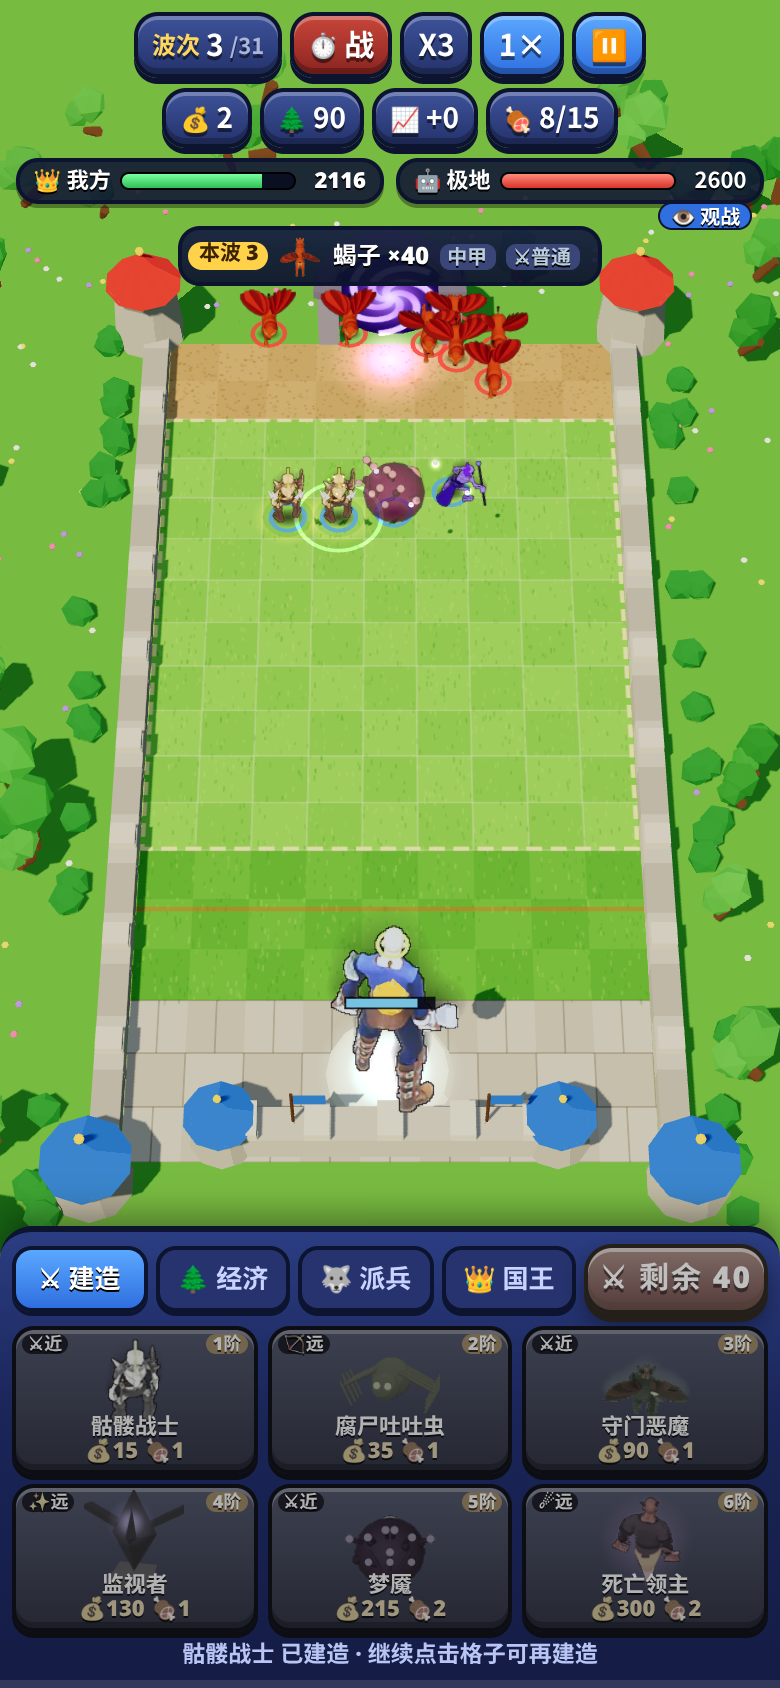
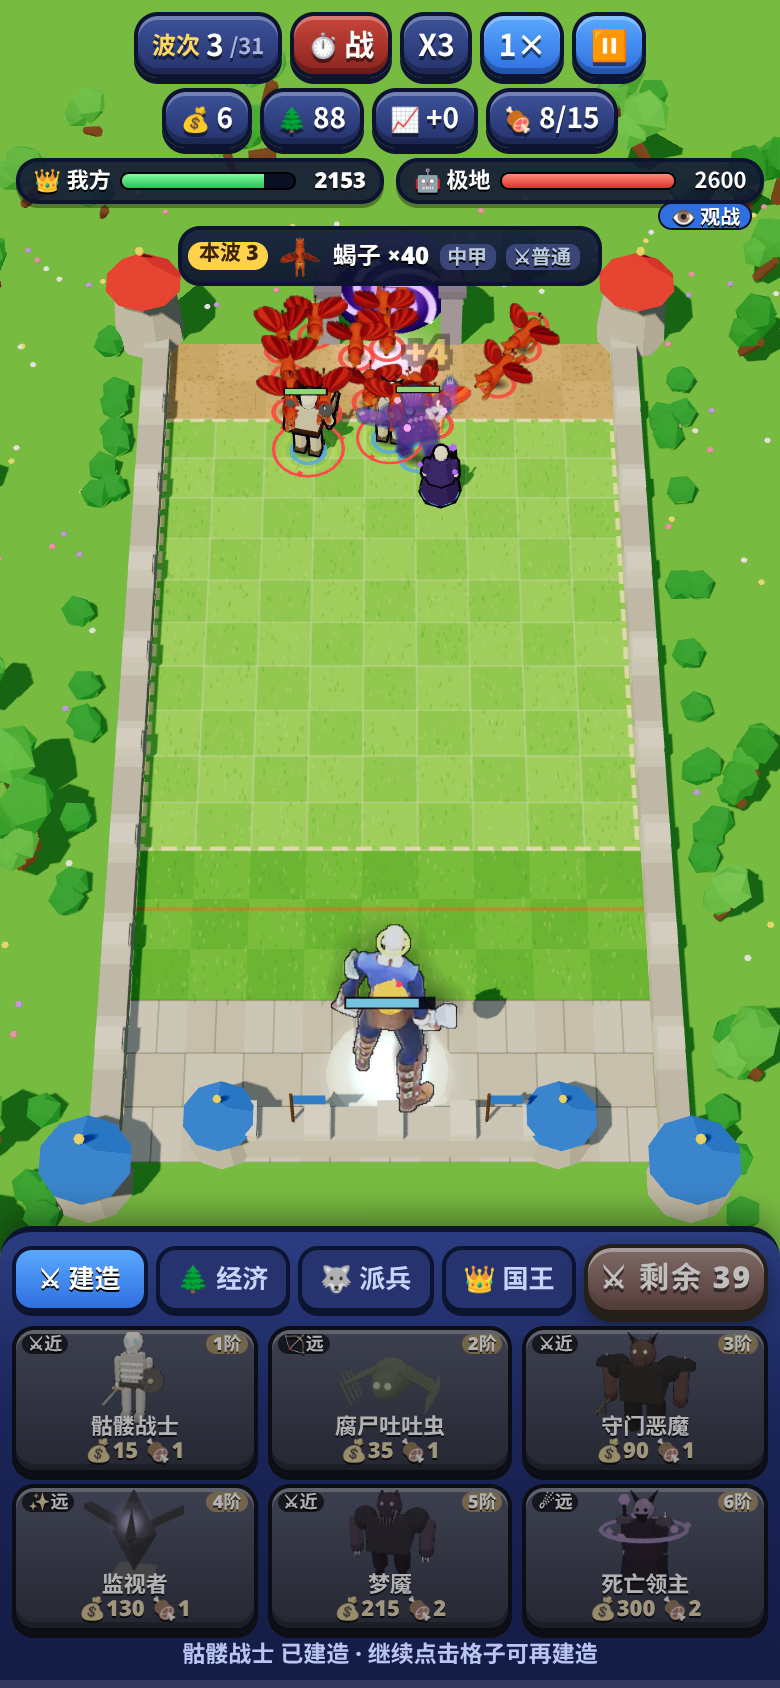
Model remake: Shadow (skeletons, fel guards, faceless ones, eredar, doom guard; crypt fiends/obsidian statues keep matching procedural models)

diff --git a/toonrecipes.js b/toonrecipes.js
@@ -101,3 +101,15 @@ R('h0C5',{k:0.95,plan:'flyer',skin:0xc8882a,skin2:0xf0c070,wingC:0x8a4a2a,eye:0x
 R('h0C8',{k:1.08,plan:'flyer',skin:0xb87a2a,skin2:0xf0c070,wingC:0x6a3a1a,eye:0xffe04a,neckLen:0.4,headS:1.15,tailLen:0.5,wingSpan:1.08,alt:0.4,rider:0x6a4a2a,riderSkin:0x6a9a3a,atk:'shoot',extras:['spikes:0x3a2a1a','quiver']});
 R('h0C9',{k:1.12,h:1.12,bw:1.4,torso:'brute',head:'default',helm:'horns',hornC:0x1a1a1a,skin:0xb8502a,torsoC:0x2a2a2e,legC:0x2a2a2e,sleeve:0xb8502a,handC:0xa8402a,bootC:0x1a1a1a,eye:0xff2a2a,metal:0x3a3a40,weapon:'axe',wMetal:0xc83a2a,pads:true,padC:0x2a2a2e,spikes:true,atk:'slam',extras:['tusks','plate:0x3a3a40','cape:0x8a1a1a','aura:0xff3a2a']});
 R('h0CC',{k:1.12,h:1.12,bw:1.35,torso:'brute',head:'default',skin:0x5a8a32,torsoC:0x6a6a7a,legC:0x4a4a54,sleeve:0x5a8a32,handC:0x5a8a32,bootC:0x2a2a2a,hair:0x1a1a1a,metal:0x4a4a54,weapon:'hammer',wMetal:0x5a5a64,glow:0x8ad8ff,pads:true,padC:0x4a4a54,atk:'slam',extras:['tusks','plate:0x4a4a54','mane:0x9a8a7a','cape:0x8a1a1a','orbit:0x8ad8ff']});
+// ===================== 暗影 Shadow：骷髅、地穴魔、恶魔守卫、黑曜石像、无面者、艾瑞达、末日守卫 =====================
+const BONE=0xe8e0c8;
+R('h01P',{k:0.92,h:1.0,bw:0.85,torso:'default',head:'skull',headC:BONE,skin:BONE,torsoC:0xc8c0a8,legC:0xc8c0a8,bootC:0xa8a088,beltC:0x5a4a3a,eye:0x6ad8ff,weapon:'sword',wMetal:0x9a9aa0,off:'shield',shieldC:0x6a5a4a,atk:'swing',extras:['bones']});
+R('h01Q',{k:1.1,h:1.08,bw:1.05,torso:'default',head:'skull',headC:BONE,helm:'horns',hornC:0x3a2a2a,skin:BONE,torsoC:0xc8c0a8,legC:0xc8c0a8,bootC:0x6a5a4a,metal:0x5a5a60,eye:0xff3a3a,weapon:'axe',wMetal:0x8a8a90,pads:true,padC:0x5a5a60,spikes:true,atk:'swing',extras:['bones','aura:0xff4a4a']});
+R('h01R',{k:1.0,h:1.0,bw:0.85,torso:'default',head:'skull',headC:BONE,skin:BONE,torsoC:0xc8c0a8,legC:0xc8c0a8,bootC:0xa8a088,eye:0xffa02a,weapon:'bow',wood:0x3a2a1a,glow:0xff7a2a,atk:'shoot',extras:['bones','quiver','flamebody']});
+R('h01S',{k:1.02,h:1.02,torso:'robe',head:'skull',headC:BONE,helm:'hood',hoodC:0x3a2a5a,skin:BONE,torsoC:0x4a3a7a,eye:0xb06aff,weapon:'staff',wood:0x2a1a2a,glow:0xb06aff,atk:'cast',extras:['orbit:0xb06aff']});
+R('h01V',{k:1.05,h:1.08,bw:1.35,torso:'brute',head:'beast',headC:0x8a3a2a,helm:'horns',hornC:0x2a1a1a,skin:0x8a3a2a,torsoC:0x3a2a2a,legC:0x2a2020,sleeve:0x8a3a2a,handC:0x7a2a1a,legs:'hoof',eye:0x8aff4a,metal:0x3a3a3a,weapon:'axe',wMetal:0x5a5a5a,pads:true,padC:0x2a2a2a,spikes:true,atk:'swing',extras:['tail:0x8a3a2a']});
+R('h01W',{k:1.12,h:1.15,bw:1.45,torso:'brute',head:'beast',headC:0x3a5aa8,helm:'horns',hornC:0x1a1a2a,skin:0x3a5aa8,torsoC:0x2a2a3a,legC:0x1a1a2a,sleeve:0x3a5aa8,handC:0x2a4a8a,legs:'hoof',eye:0x8ad8ff,weapon:'axe',wMetal:0x6a8aff,glow:0x6a8aff,pads:true,padC:0x1a1a2a,spikes:true,atk:'swing',extras:['tail:0x3a5aa8','flamebody','aura:0x6a8aff']});
+R('h01Z',{k:1.1,h:1.08,bw:1.4,torso:'brute',head:'beast',headC:0x4a2a5a,skin:0x5a3a6a,torsoC:0x3a2a4a,legC:0x2a1a3a,sleeve:0x5a3a6a,handC:0x4a2a5a,legs:'digit',arms:'claw',eye:0xd06aff,atk:'claw',extras:['tentacles:0x6a4a7a','spikes:0x8a6aaa']});
+R('h020',{k:1.25,ghost:true,h:1.12,bw:1.45,torso:'brute',head:'beast',headC:0x8a4ab8,skin:0x9a5ac8,torsoC:0x6a3a9a,legC:0x5a2a8a,sleeve:0x9a5ac8,handC:0x8a4ab8,legs:'digit',arms:'claw',eye:0xffaaff,atk:'claw',extras:['tentacles:0xb06ad8','spikes:0xff8aff','orbit:0xff8aff']});
+R('h021',{k:1.15,h:1.12,torso:'robe',head:'default',helm:'horns',hornC:0x1a1a1a,skin:0xb06ad8,torsoC:0x3a1a4a,legC:0x3a1a4a,eye:0xff4aff,beard:0x2a1a2a,weapon:'staff',off:'book',bookC:0x2a1a2a,wood:0x2a1a2a,glow:0xd06aff,pads:true,padC:0x5a3a6a,spikes:true,atk:'cast',extras:['tail:0xb06ad8','orbit:0xd06aff','aura:0xb06aff']});
+R('h022',{k:1.15,h:1.2,bw:1.45,torso:'brute',head:'beast',headC:0xb02a1a,helm:'horns',hornC:0x2a1a1a,skin:0xc83a2a,torsoC:0x3a2a2a,legC:0x2a1a1a,sleeve:0xc83a2a,handC:0xa82a1a,legs:'hoof',eye:0xffe04a,metal:0x3a3a3a,weapon:'greatsword',wMetal:0xff6a2a,glow:0xff4a2a,pads:true,padC:0x2a2a2a,spikes:true,atk:'swing',extras:['bwings:0x5a1a1a','tail:0xc83a2a','flamebody','aura:0xff3a2a']});

diff --git a/toonkit.js b/toonkit.js
@@ -215,6 +215,7 @@ const EXTRA={
   halo:(B,o,h,d)=>{B.add('head','tor',[0.12*h,0.015*h,6,20],[0,0.3*h,0],d.col??0xfff0a0,{r:[Math.PI/2,0,0],m:'e'});},
   ears:(B,o,h,d)=>{const hs=h*(o.headS||1);for(const s of [-1,1])B.add('head','cone',[0.025*hs,0.16*hs,4],[s*0.12*hs,0.12*hs,-0.01*hs],d.col??o.headC??o.skin??0xe8b88a,{r:[0.3,0,-s*1.25]});},
   blindfold:(B,o,h,d)=>{const hs=h*(o.headS||1);B.add('head','cyl',[0.108*hs,0.108*hs,0.035*hs,10],[0,0.12*hs,0],d.col??0x2a8a3a);},
+  tentacles:(B,o,h,d)=>{const hs=h*(o.headS||1);for(let i=0;i<5;i++){const x=(i-2)*0.035*hs;B.add('head','cone',[0.022*hs,0.16*hs,4],[x,0.0,0.11*hs],d.col??o.headC??0x5a3a6a,{r:[Math.PI-0.25+Math.abs(i-2)*0.05,0,(i-2)*0.15]});}},
   bones:(B,o,h,d)=>{for(let i=0;i<3;i++)B.add('torso','box',[d.tW*0.9,0.025*h,0.03*h],[0,d.tH*(0.35+i*0.18),d.tD*0.5],0xe8e0c8);},
 };
 function wings(B,o,h,d,kind){const c=d.col??o.wingC??(kind==='bat'?0x5a3a5a:kind==='energy'?0x9ad8ff:0xf0f0f0);const sp=o.wingSpan||1;

diff --git a/index.html b/index.html
@@ -10,9 +10,9 @@
 <link rel="manifest" href="manifest.webmanifest">
 <link rel="icon" type="image/png" href="icons/favicon-32.png">
 <link rel="apple-touch-icon" href="icons/apple-touch-icon.png">
-<link rel="stylesheet" href="style.css?v=8">
-<link rel="stylesheet" href="td.css?v=8">
-<link rel="stylesheet" href="lt.css?v=8">
+<link rel="stylesheet" href="style.css?v=9">
+<link rel="stylesheet" href="td.css?v=9">
+<link rel="stylesheet" href="lt.css?v=9">
 </head>
 <body class="td lt">
 <canvas id="cv"></canvas>
@@ -75,8 +75,8 @@
 </div>
 <div id="showTitle" class="hidden"></div>
 <script src="audio.js?v=1"></script>
-<script src="lt_core.js?v=8"></script>
+<script src="lt_core.js?v=9"></script>
 <script type="importmap">{"imports":{"three":"./lib/three.module.min.js","three/addons/":"./lib/addons/"}}</script>
-<script type="module" src="lt.js?v=8"></script>
+<script type="module" src="lt.js?v=9"></script>
 </body>
 </html>

diff --git a/lt.js b/lt.js
@@ -3,8 +3,8 @@ import * as THREE from 'three';
 import {SPR_UNITS,SPR_K,SPR_V} from './sprdata.js';
 import {MODELS,modelOf} from './models.js';
 import {ABZ as ABZ_} from './abil_zh.js';
-import {initTK,buildTK,animTK} from './toonkit.js?v=8';
-import {TKR} from './toonrecipes.js?v=8';
+import {initTK,buildTK,animTK} from './toonkit.js?v=9';
+import {TKR} from './toonrecipes.js?v=9';
 const LT=window.LT,S=SFX.S,$=id=>document.getElementById(id);
 const Q=location.search;const DEBUG=/[?&]debug/.test(Q);const SHOWCASE=(Q.match(/[?&]showcase=([^&]+)/)||[])[1];
 const W=LT.W,H=LT.H,W2=W/2,H2=H/2;const B=LT.BUILD;

diff --git a/data/model_audit.md b/data/model_audit.md
@@ -24,7 +24,7 @@
 |---|---|---|---|---|
 | Mech 机械 | 13 | 2.31 | 7 | 13 |
 | Beast 野兽 | 12 | 1.42 | 1 | 0 |
-| Shadow 暗影 | 14 | 1.43 | 2 | 0 |
+| Shadow 暗影 | 14 | 1.43 | 2 | 10 |
 | Nature 自然 | 13 | 1.31 | 1 | 0 |
 | Element 元素 | 12 | 1.58 | 2 | 12 |
 | Ghost 幽魂 | 14 | 1.93 | 1 | 14 |
@@ -167,20 +167,20 @@
 
 | id | 兵种 | WC3 模型 | 旧资源 | 旧资源符合度 | 处理 |
 |---|---|---|---|---|---|
-| h01P | Bone Warrior 骷髅战士 | Skeleton | 精灵 skeleton | ✅ 基本相符 | 保留，后续统一换 ToonKit 时顺带做 |
-| h01Q | Skeletor 骷髅勇士 | SkeletonOrc | 精灵 skeleton | ✅ 基本相符 | 保留，后续统一换 ToonKit 时顺带做 |
-| h01R | Fire Archer 火焰弓箭手 | SkeletonArcher | 精灵 skeleton | ✅ 基本相符 | 保留，后续统一换 ToonKit 时顺带做 |
-| h01S | Dark Mage 骷髅黑法师 | SkeletonMage | 精灵 lich | ⚠ 部分不符 | ToonKit 程序化重做（按 WC3 轮廓/配色） |
+| h01P | Bone Warrior 骷髅战士 | Skeleton | 精灵 skeleton | ✅ 基本相符 | **已重做**：ToonKit 程序化卡通模型（humanoid） |
+| h01Q | Skeletor 骷髅勇士 | SkeletonOrc | 精灵 skeleton | ✅ 基本相符 | **已重做**：ToonKit 程序化卡通模型（humanoid） |
+| h01R | Fire Archer 火焰弓箭手 | SkeletonArcher | 精灵 skeleton | ✅ 基本相符 | **已重做**：ToonKit 程序化卡通模型（humanoid） |
+| h01S | Dark Mage 骷髅黑法师 | SkeletonMage | 精灵 lich | ⚠ 部分不符 | **已重做**：ToonKit 程序化卡通模型（humanoid） |
 | h01T | Carrion Spitter 腐尸吐吐虫 | CryptFiend | 程序化 spider | ✅ 基本相符 | 保留，后续统一换 ToonKit 时顺带做 |
 | h01U | Nightcrawler 夜行蛛 | NerubianSpiderLord | 程序化 spider | ✅ 基本相符 | 保留，后续统一换 ToonKit 时顺带做 |
-| h01V | Gateguard 守门恶魔 | Felgaurd | 精灵 pitFiend | ✅ 基本相符 | 保留，后续统一换 ToonKit 时顺带做 |
-| h01W | Harbinger 先驱者 | FelgaurdBlue | 精灵 pitFiend | ✅ 基本相符 | 保留，后续统一换 ToonKit 时顺带做 |
+| h01V | Gateguard 守门恶魔 | Felgaurd | 精灵 pitFiend | ✅ 基本相符 | **已重做**：ToonKit 程序化卡通模型（humanoid） |
+| h01W | Harbinger 先驱者 | FelgaurdBlue | 精灵 pitFiend | ✅ 基本相符 | **已重做**：ToonKit 程序化卡通模型（humanoid） |
 | h01X | Overseer 监视者 | ObsidianStatue | 程序化 statue | ✅ 基本相符 | 保留，后续统一换 ToonKit 时顺带做 |
 | h01Y | Keeper of Souls 灵魂守护者 | ObsidianStatue | 程序化 statue | ✅ 基本相符 | 保留，后续统一换 ToonKit 时顺带做 |
-| h01Z | Nightmare 梦魇 | FacelessOne | 精灵 beholder | ❌ 严重不符 | ToonKit 程序化重做（按 WC3 轮廓/配色） |
-| h020 | Doppelganger 幻影分身 | FacelessOne | 精灵 beholder | ❌ 严重不符 | ToonKit 程序化重做（按 WC3 轮廓/配色） |
-| h021 | Lord of Death 死亡领主 | EredarWarlock | 精灵 efreet | ⚠ 部分不符 | ToonKit 程序化重做（按 WC3 轮廓/配色） |
-| h022 | Hades 冥王 | DoomGuard | 精灵 devil | ✅ 基本相符 | 保留，后续统一换 ToonKit 时顺带做 |
+| h01Z | Nightmare 梦魇 | FacelessOne | 精灵 beholder | ❌ 严重不符 | **已重做**：ToonKit 程序化卡通模型（humanoid） |
+| h020 | Doppelganger 幻影分身 | FacelessOne | 精灵 beholder | ❌ 严重不符 | **已重做**：ToonKit 程序化卡通模型（humanoid） |
+| h021 | Lord of Death 死亡领主 | EredarWarlock | 精灵 efreet | ⚠ 部分不符 | **已重做**：ToonKit 程序化卡通模型（humanoid） |
+| h022 | Hades 冥王 | DoomGuard | 精灵 devil | ✅ 基本相符 | **已重做**：ToonKit 程序化卡通模型（humanoid） |
 
 ## Marine 海洋
 
